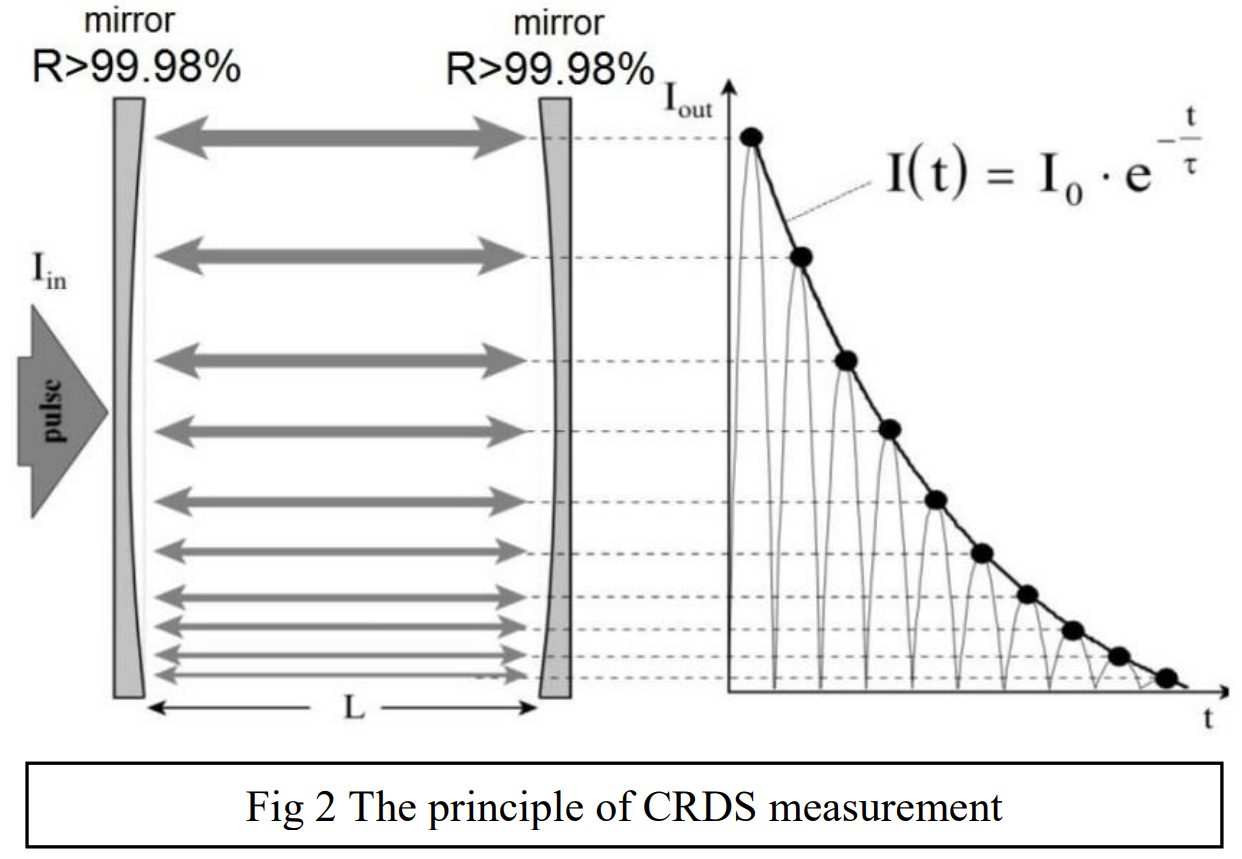
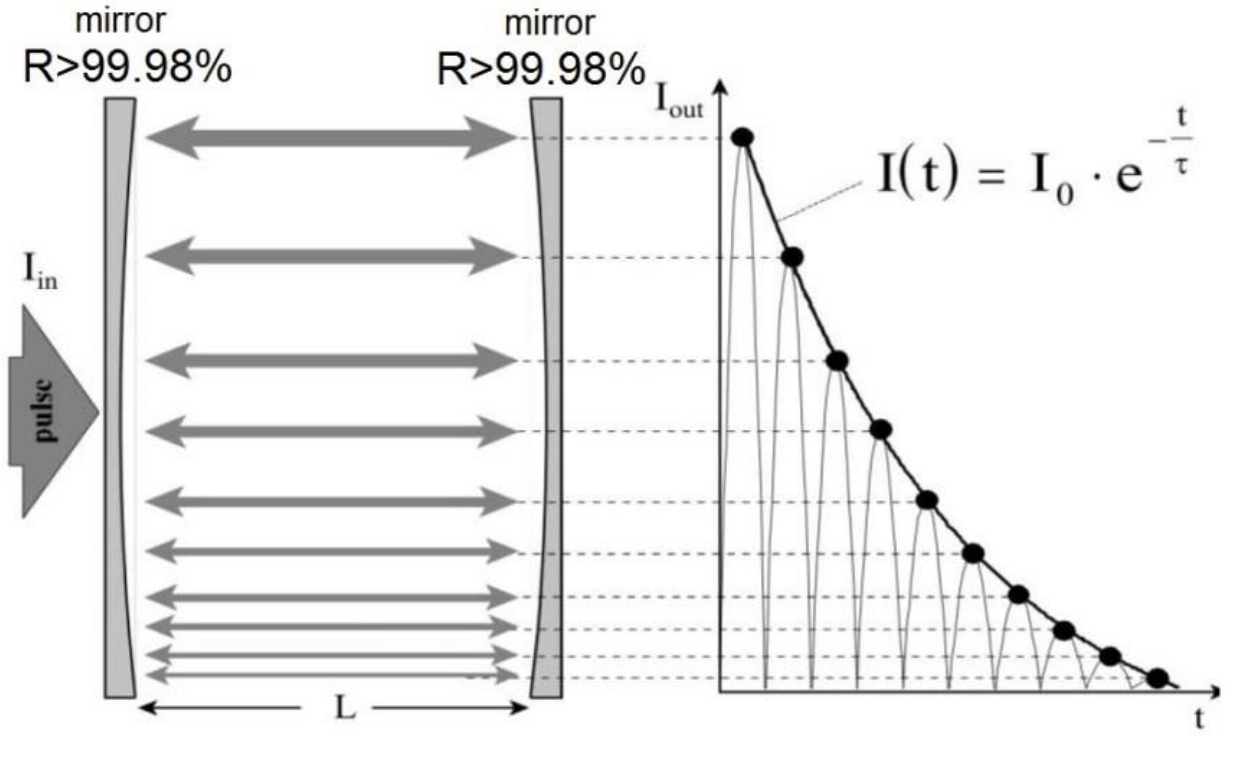
finished report

Changed region(s): [[0.0, 0.0, 1.0, 0.9987]]

diff --git a/Evaluation/Evaluation_RAY.tex b/Evaluation/Evaluation_RAY.tex
@@ -200,7 +200,7 @@ The ring-down time is the characteristic time scale on which the intracavity int
 
 \begin{figure}[H]
   \centering
-  \includegraphics[width=0.85\linewidth]{../resources/figures/crds_principle.png}
+  \includegraphics[width=0.9\linewidth]{../resources/figures/crds_principle.png}
   \caption{Principle of a CRDS measurement.
   A short laser pulse is injected into a two-mirror cavity with reflectivity $R>99.98\%$ and the transmitted intensity decays exponentially as $I(t)=I_0 e^{-t/\tau}$~\cite{RAYAnleitung}.}
   \label{fig:crds_principle}
@@ -241,7 +241,7 @@ All optical components are mounted on an optical rail that is screwed onto a sta
 \vspace{1em}
 \begin{figure}[H]
   \centering
-  \includegraphics[width=0.95\linewidth]{../resources/figures/crds_setup.png}
+  \includegraphics[width=0.97\linewidth]{../resources/figures/crds_setup.png}
   \caption{CRDS measurement setup as used in the experiment.
   The pulsed laser injects light into the optical cavity, the transmitted leakage light is detected with a photomultiplier (PM) after an optical filter and recorded on a digital oscilloscope, and the cavity can be evacuated or filled with filtered ambient air using valves, a vacuum pump, and a syringe filter~\cite{RAYAnleitung}.}
   \label{fig:crds_setup}
@@ -249,7 +249,7 @@ All optical components are mounted on an optical rail that is screwed onto a sta
 
 The optical cavity consists of two highly reflective spherical mirrors arranged as a stable resonator with a fixed mirror separation L=\SI{50}{cm} and mirror radius of curvature r=\SI{100}{cm}.
 The mirrors have a reflectivity of $R>99.98\%$, so only a very small fraction of the intracavity light is transmitted through the mirror coatings during each round trip.
-A short laser pulse from the pulsed laser diode head (PicoQuant LDH-D-C-405, wavelength \SI{405}{nm}, pulse power up to \SI{100}{mW}, repetition rate up to \SI{100}{Hz}) is coupled into the cavity through the input mirror, and after the excitation ends the remaining intracavity light decays due to the total losses of the resonator~\cite{RAYAnleitung}.
+A short laser pulse from the pulsed laser diode head (PicoQuant LDH-D-C-405, wavelength \SI{405}{nm}, pulse power up to \SI{100}{mW}, repetition rate up to \SI{100}{Hz}) is injected into the cavity through the input mirror, and after the excitation ends the remaining intracavity light decays due to the total losses of the resonator~\cite{RAYAnleitung}.
 Between the laser diode head and the cavity entrance, two pinhole apertures are positioned along the beam path over a distance of roughly \SI{50}{cm}.
 These apertures define the nominal optical axis and serve as a practical alignment aid: the laser beam is adjusted to pass centrally through both pinholes before entering the cavity, which helps to ensure near-collinear injection and reduces angular misalignment during the subsequent cavity optimization.
 
@@ -575,7 +575,7 @@ This scatter is much larger than the propagated uncertainties of individual fits
 
 A key point is that $\beta$ is extracted from a difference of decay rates, $\beta=\Delta(1/\tau)/c$.
 As a consequence, small changes in the measured ring-down times $\tau$ and $\tau_0$ can lead to comparatively large changes in the inferred scattering coefficient.
-A sensitivity analysis in the evaluation illustrates this directly: for a typical pair, changing the air-filled ring-down time by only \SI{0.5}{\micro\second} changes $\beta$ by about $3.1\times 10^{-5}\,\si{m^{-1}}$, i.e.\ by an amount comparable to the expected Rayleigh signal itself.
+A simple estimate illustrates this directly: for a typical pair, changing the air-filled ring-down time by only \SI{0.5}{\micro\second} changes $\beta$ by about $3.1\times 10^{-5}\,\si{m^{-1}}$, i.e.\ by an amount comparable to the expected Rayleigh signal itself.
 This explains why the pairwise values $\beta_i$ can differ strongly even though each individual ring-down time is determined with an uncertainty of only about \SI{0.05}{\micro\second}.
 
 The most plausible origin of such pair-to-pair variations is that the optical alignment of the cavity is not reproduced perfectly after refilling and re-optimizing.
@@ -617,8 +617,8 @@ Further improvements would primarily require increased mechanical stability and 
 Additional files:
 
 \begin{itemize}
-  \item \texttt{'RAY\_Python.zip'}
-  \item \texttt{'RAY\_LabReport.pdf'}
+  \item \texttt{RAY\_Python.zip}
+  \item \texttt{RAY\_LabReport.pdf}
 \end{itemize}
 
 % ------------------
